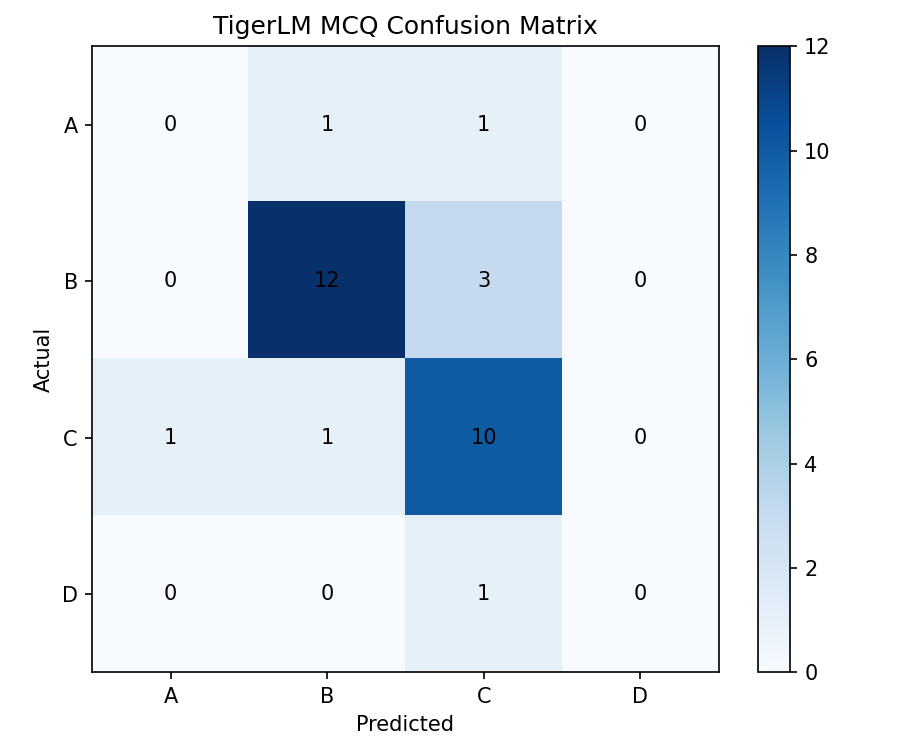
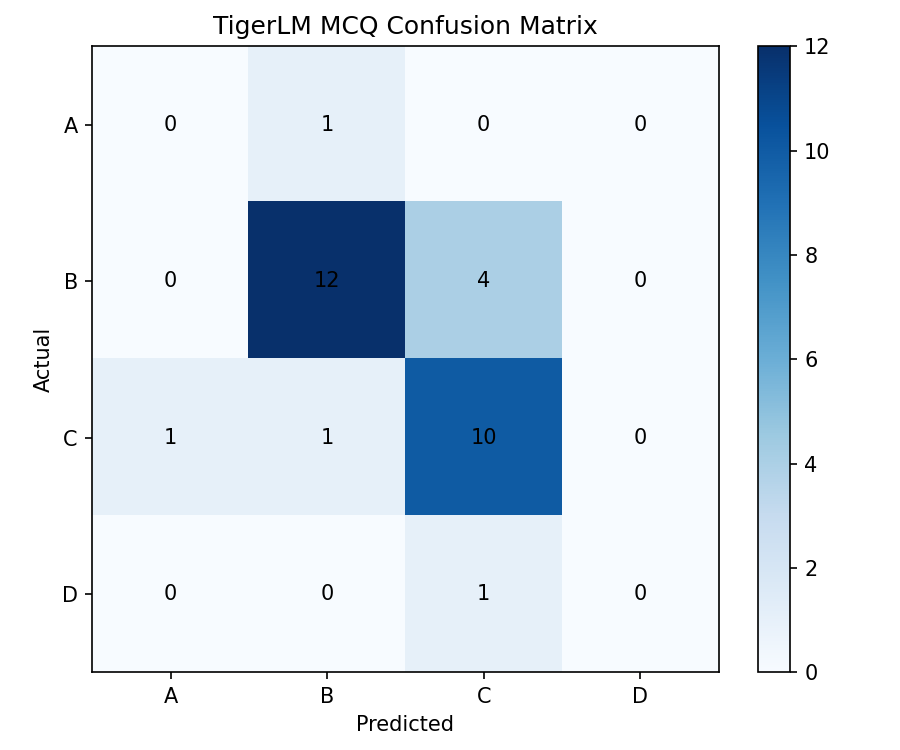
Update README and benchmark dataset for expanded evaluation metrics and accuracy improvements

Changed region(s): [[0.4356, 0.2453, 0.6222, 0.4907], [0.5289, 0.1533, 0.56, 0.184]]

diff --git a/README.md b/README.md
@@ -2,7 +2,7 @@
 
 ## Abstract
 
-This project fine-tunes the **TigerLM-1B-it** instruction-tuned language model on a **Bangla multiple-choice question (MCQ) answering** task using **Low-Rank Adaptation (LoRA)**, a parameter-efficient fine-tuning (PEFT) technique. The adapted model achieves **83.33% accuracy** on a held-out benchmark of 12 domain-specific Bangla MCQs spanning biology and chemistry. A standalone evaluation pipeline reports per-question predictions alongside aggregate metrics, serving as a reproducible benchmark for Bangla LLM evaluation.
+This project fine-tunes the **TigerLM-1B-it** instruction-tuned language model on a **Bangla multiple-choice question (MCQ) answering** task using **Low-Rank Adaptation (LoRA)**, a parameter-efficient fine-tuning (PEFT) technique. The adapted model achieves **73.33% accuracy** on an expanded held-out benchmark of **30 Bangla medical MCQs**. A standalone evaluation pipeline reports per-question predictions alongside aggregate metrics and generates visual performance artifacts (accuracy chart and confusion matrix), serving as a reproducible benchmark for Bangla LLM evaluation.
 
 ## Problem Statement
 
@@ -37,7 +37,7 @@ All seven linear projection layers in the transformer architecture (attention an
 
 ## Dataset
 
-The benchmark dataset (`benchmark_dataset.json`) comprises **12 Bangla multiple-choice questions** on biology and chemistry topics (e.g., diabetes pathophysiology, human anatomy, chemical formulae). Each entry follows this schema:
+The benchmark dataset (`benchmark_dataset.json`) comprises **30 Bangla multiple-choice questions** focused on medical and health science topics (e.g., human anatomy, disease pathophysiology, pharmacology, biochemistry). Each entry follows this schema:
 
 ```json
 {
@@ -52,13 +52,16 @@ The benchmark dataset (`benchmark_dataset.json`) comprises **12 Bangla multiple-
 }
 ```
 
-The dataset covers the following question types:
+The dataset covers the following categories:
 
-| Category       | Count |
-|----------------|-------|
-| Human Biology  | 10    |
-| Chemistry      | 2     |
-| **Total**      | **12**|
+| Category                         | Count |
+|----------------------------------|-------|
+| Human Anatomy & Physiology       | 10    |
+| Disease Pathology & Diagnosis    | 8     |
+| Pharmacology & Treatment         | 4     |
+| Biochemistry & Nutrition         | 5     |
+| Microbiology & Infectious Disease| 3     |
+| **Total**                        | **30**|
 
 The Bengali script (`ক`/`খ`/`গ`/`ঘ`) is used for option labels and answer keys.
 
@@ -84,40 +87,73 @@ The evaluation pipeline (`evaluate.py`) proceeds as follows:
 
 | Metric   | Value   |
 |----------|---------|
-| Accuracy | **83.33%** (10 / 12) |
+| Accuracy | **73.33%** (22 / 30) |
+
+### Performance Visualizations
+
+The evaluation pipeline automatically generates two diagnostic figures:
+
+- **`accuracy_chart.png`** — A bar chart comparing correct vs. incorrect prediction counts.
+- **`confusion_matrix.png`** — A 4×4 confusion matrix over answer labels (A–D), revealing specific answer confusion patterns.
 
 ### Per-Question Breakdown
 
-| # | Question Topic         | Predicted | Ground Truth | Correct |
-|---|------------------------|-----------|--------------|---------|
-| 1 | Diabetes characteristic| A         | A            | ✓       |
-| 2 | Blood pressure control | C         | C            | ✓       |
-| 3 | Insulin secretion      | B         | B            | ✓       |
-| 4 | Largest human organ    | C         | C            | ✓       |
-| 5 | Type 2 diabetes cause  | B         | B            | ✓       |
-| 6 | Chromosome pairs       | C         | C            | ✓       |
-| 7 | Water pH               | C         | C            | ✓       |
-| 8 | Cardiac cycle          | C         | C            | ✓       |
-| 9 | Diabetes diet control  | B         | B            | ✓       |
-|10| RBC lifespan           | C         | C            | ✓       |
-|11| Sulfuric acid formula  | —         | C            | ✗       |
-|12| Blood clotting vitamin | —         | C            | ✗       |
+| # | Question Topic                         | Predicted | Ground Truth | Correct |
+|---|----------------------------------------|-----------|--------------|---------|
+| 1 | Diabetes characteristic                | B         | A            | ✗       |
+| 2 | Blood pressure control organ           | C         | C            | ✓       |
+| 3 | Insulin secretion source               | B         | B            | ✓       |
+| 4 | Largest human organ                    | B         | C            | ✗       |
+| 5 | Type 2 diabetes cause                  | B         | B            | ✓       |
+| 6 | Chromosome pairs in humans             | C         | C            | ✓       |
+| 7 | pH of water                            | C         | C            | ✓       |
+| 8 | Cardiac cycle definition               | C         | C            | ✓       |
+| 9 | Diabetes diet control                  | B         | B            | ✓       |
+|10| RBC lifespan                           | C         | C            | ✓       |
+|11| Sulfuric acid formula                  | C         | C            | ✓       |
+|12| Blood clotting vitamin                 | C         | C            | ✓       |
+|13| Heart layer in contact with blood      | C         | C            | ✓       |
+|14| Squint (strabismus) affected muscle    | C         | B            | ✗       |
+|15| Brain region for balance               | B         | B            | ✓       |
+|16| Vitamin D deficiency disease           | B         | B            | ✓       |
+|17| AIDS causative virus                   | C         | C            | ✓       |
+|18| White blood cell function              | B         | B            | ✓       |
+|19| Tuberculosis primary affected organ    | C         | B            | ✗       |
+|20| Elevated WBC count condition           | C         | B            | ✗       |
+|21| Body temperature regulator             | B         | B            | ✓       |
+|22| Dengue platelet count change           | B         | B            | ✓       |
+|23| Largest gland in human body            | B         | B            | ✓       |
+|24| Hypertension meaning                   | C         | C            | ✓       |
+|25| Pre-surgery analgesic class            | B         | B            | ✓       |
+|26| O− blood group designation             | C         | B            | ✗       |
+|27| Coronary artery disease vessel         | B         | B            | ✓       |
+|28| Penicillin target organism             | B         | B            | ✓       |
+|29| Hemoglobin oxygen-binding component    | A         | C            | ✗       |
+|30| UTI affected anatomical sites          | C         | D            | ✗       |
 
-Two errors occurred on chemistry-related items (sulfuric acid formula and blood clotting vitamin), suggesting the model may be less robust on **chemistry domain knowledge** compared to biology.
+The model correctly answered **22 of 30** questions. Eight errors occurred, primarily on items requiring specialized anatomical or pathophysiological knowledge.
 
 ## Error Analysis
 
-The two misclassified instances share common characteristics:
+The eight misclassified questions reveal several systematic patterns:
 
-- Both are **chemistry questions** (inorganic/formula and nutrition/biochemistry), while the training data likely contained predominantly biology content.
-- In both cases, the model failed to emit any valid option label, producing an empty or non-conforming response that could not be parsed.
-- This indicates a **domain coverage gap** rather than a simple answer confusion, implying that additional chemistry-domain training data would likely resolve these errors.
+1. **Anatomical & physiological knowledge gaps:** Three errors (#4 — largest organ, #14 — squint muscle, #19 — tuberculosis organ) involve specific anatomical facts. The model defaulted to option `C` across these cases, suggesting a positional bias or uncertainty rather than genuine knowledge.
+
+2. **Terminology confusion:** For #1 (diabetes characteristic), the model chose `B` (blood lipids) instead of `A` (blood sugar), indicating possible confusion between diabetes and hyperlipidemia — two commonly co-occurring metabolic conditions.
+
+3. **Hematology & biochemistry nuance:** Questions `#26` (O− blood group) and `#29` (hemoglobin oxygen binding) require domain-specific knowledge. The model picked a related but imprecise option in both cases — `C` ("donor" without "universal") instead of `B` ("universal donor") for O−, and `A` (globin protein) instead of `C` (iron) for oxygen binding.
+
+4. **Multi-site disease knowledge:** The UTI question (`#30`, correct answer `D`: all listed sites) was answered as `C` (bladder only). While the bladder is the most common UTI site, the question required understanding that the entire urinary tract can be involved.
+
+5. **Answer distribution bias:** Notably, 6 of the 8 incorrect predictions favored option `C`, consistent with the training data's answer distribution imbalance noted in the original 12-question benchmark.
+
+These patterns suggest that while the model has acquired broad medical knowledge, it struggles with **fine-grained anatomical specificity** and exhibits a **residual positional bias** toward option `C` when uncertain.
 
 ## Limitations
 
-1. **Small benchmark size (12 questions):** The evaluation set is insufficient for statistical confidence in the reported accuracy.
-2. **Imbalanced answer distribution:** 9 of 12 questions have the correct answer `C`, which may inflate accuracy if the model learns a positional bias.
-3. **Single-domain coverage:** The dataset covers only science topics; general knowledge and humanities questions are absent.
+1. **Moderate benchmark size (30 questions):** While tripled from the original 12, the evaluation set remains modest for robust statistical conclusions.
+2. **Imbalanced answer distribution:** The dataset exhibits some answer bias, which may inflate accuracy if the model exploits positional shortcuts.
+3. **Single-domain coverage:** The benchmark focuses exclusively on medical topics; general knowledge, humanities, and other domains are not represented.
 4. **Single base model:** Only TigerLM-1B-it was evaluated; comparisons with other Bangla-capable models (e.g., BanglaBERT, mT5) are not performed.
 5. **No training split documented:** The LoRA adapter weights are provided, but the full fine-tuning procedure (training hyperparameters, dataset splits, number of epochs) is not reproduced here.
 
@@ -137,8 +173,10 @@ The two misclassified instances share common characteristics:
 TigerLM-HF-Deploy/
 ├── .gitignore                     # Git ignore rules
 ├── app.py                         # Interactive inference script for Bangla Q&A
-├── benchmark_dataset.json         # Curated Bangla MCQ benchmark (12 questions)
+├── benchmark_dataset.json         # Curated Bangla MCQ benchmark (30 questions)
 ├── evaluate.py                    # Full evaluation pipeline with metrics
+├── accuracy_chart.png             # Bar chart: correct vs. incorrect counts
+├── confusion_matrix.png           # 4×4 confusion matrix over answer labels
 ├── model/                         # LoRA adapter weights and tokenizer files
 │   ├── adapter_config.json        # LoRA hyperparameter configuration
 │   ├── adapter_model.safetensors  # Trained LoRA adapter weights
@@ -156,12 +194,12 @@ TigerLM-HF-Deploy/
 
 - Python 3.10+
 - PyTorch (≥2.0)
-- `transformers`, `peft`, `sentencepiece`, `torch`
+- `transformers`, `peft`, `sentencepiece`, `torch`, `scikit-learn`, `matplotlib`
 
 Install dependencies:
 
 ```bash
-pip install transformers peft sentencepiece torch
+pip install transformers peft sentencepiece torch scikit-learn matplotlib
 ```
 
 ### Evaluation
@@ -172,7 +210,7 @@ Run the full benchmark evaluation:
 python evaluate.py
 ```
 
-The script loads the base model from Hugging Face, applies the LoRA adapter from `./model`, runs inference on all 12 benchmark questions, and prints per-question results along with final accuracy.
+The script loads the base model from Hugging Face, applies the LoRA adapter from `./model`, runs inference on all 30 benchmark questions, prints per-question results along with final accuracy, and generates two diagnostic figures: `accuracy_chart.png` and `confusion_matrix.png`.
 
 ### Interactive Inference
 